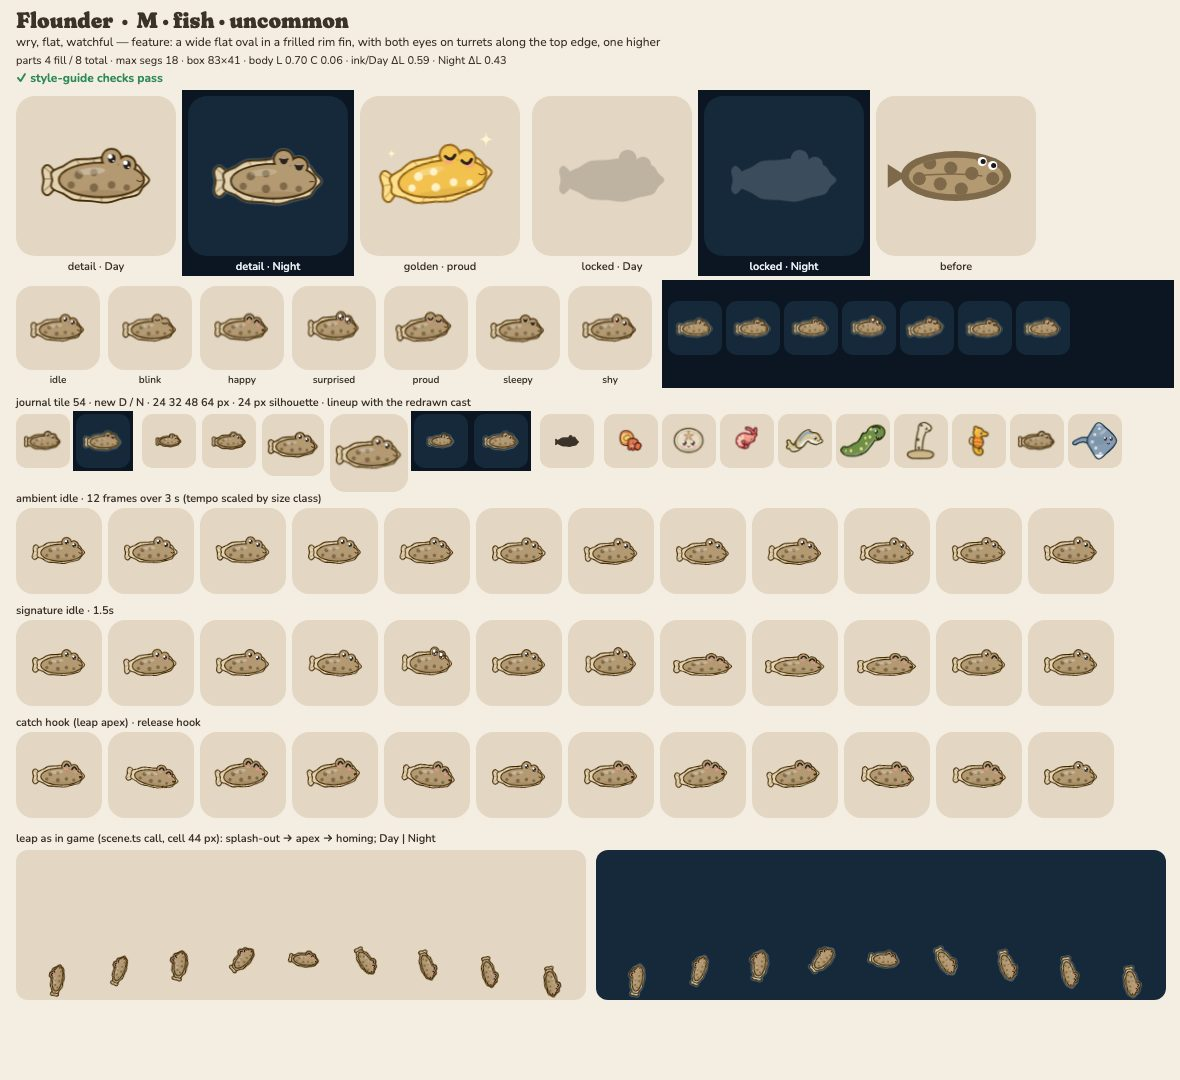
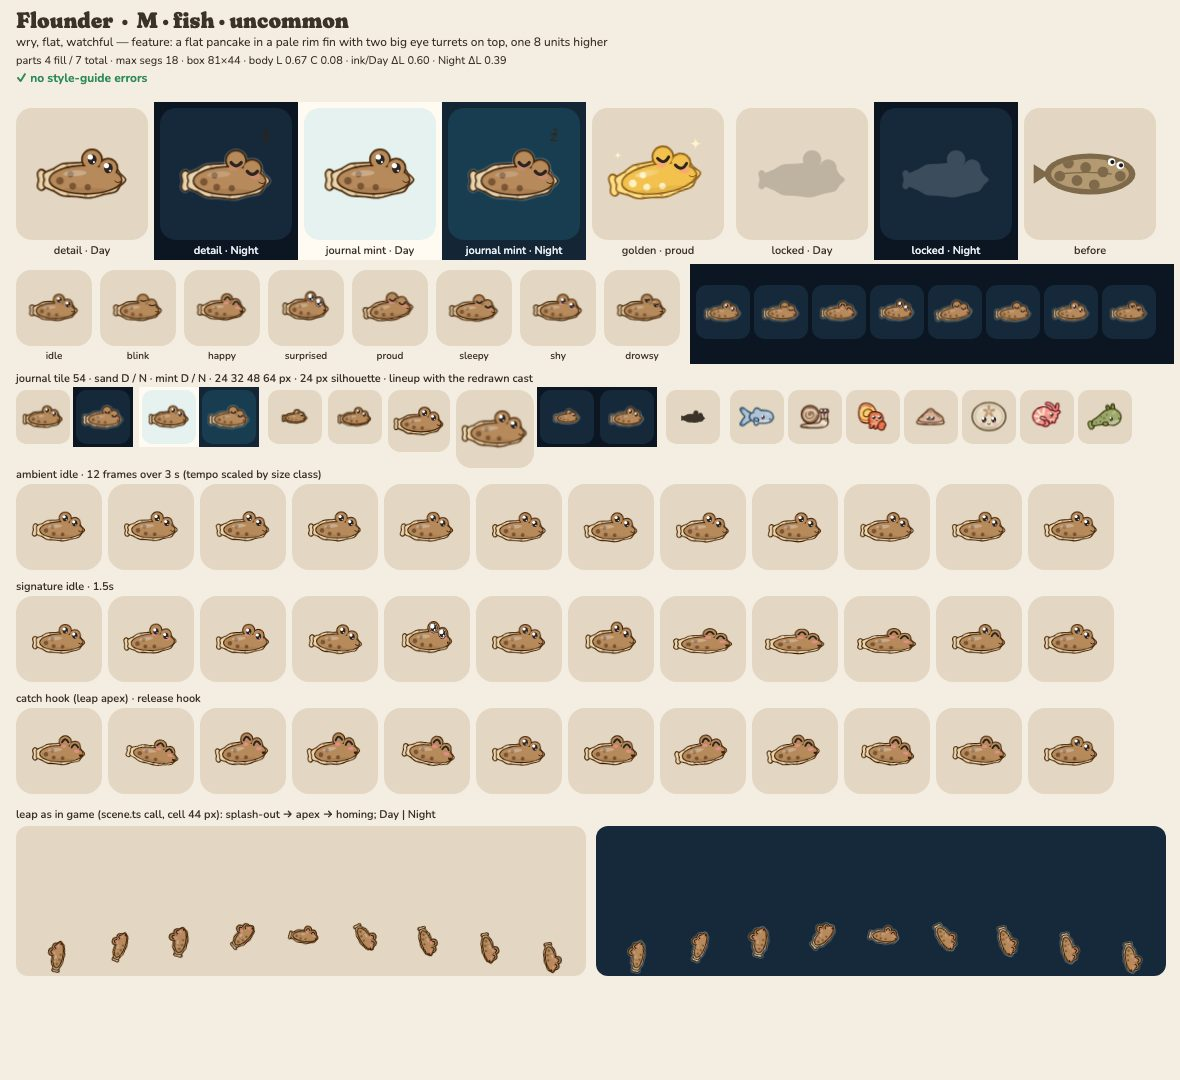
render: flounder redo — two big eye turrets, one 8 u higher (ADR 0011)
CRITIQUE-1 C. Stacked-eye joke at 1.6x: two big turrets on the top edge (eyes 9.6 u), the back one 8 units higher; body #B78A5C (C 0.08) with 4 spots #7A5636 kept off the face; pale rim fin #E9D4AE; tail stub halved. Signature: glance down, surprised, flop flat, wink. Lint clean (R7 deviation: the stacked eyes are the appendix's joke).

diff --git a/src/render/art/species/flounder.ts b/src/render/art/species/flounder.ts
@@ -1,72 +1,58 @@
 /**
- * Flounder — FISH class (flatfish lying on the sand, seen from above-front). Silhouette: a wide, flat
- * oval inside a pale frilled rim fin, with BOTH eyes on little turrets poking up from the top edge,
- * one higher than the other (R10: the stacked eyes — the joke). Wide (≈ 1.6 : 1) and flat with a fan
- * tail, so it never reads as a round puffer. Personality: wry, flat, watchful.
- * Signature: the eyes glance down and around, then it flops flat (squash 1.1 / 0.85).
+ * Flounder — FISH class (flatfish lying on the sand, seen from above-front). Silhouette: a flat
+ * pancake (2 : 1) in a pale scalloped rim fin with TWO BIG EYE TURRETS on the top edge, the front one
+ * 8 units lower than the back one (R10: the stacked eyes — the joke — exaggerated 1.6×), and only a
+ * stub of a tail. Never a puffer: flat, spineless, wide. Personality: wry, flat, watchful.
+ * Signature: the eyes glance down, then up surprised, then it flops flat (squash 1.1 / 0.85) and winks.
  */
 import { blob, circle, defineArt, ellipse, join } from '../kit.ts';
 
-const body = ellipse(0, 6, 33, 13);
+const body = ellipse(0, 9, 33, 12.5);
 // the rim fin: a softly scalloped frill all the way round (18 lobes, alternating radius)
 const rim = blob(
   Array.from({ length: 18 }, (_, i) => {
     const a = (i / 18) * Math.PI * 2;
     const k = i % 2 ? 0.93 : 1;
-    return [-2 + 39 * k * Math.cos(a), 6 + 17.5 * k * Math.sin(a)] as const;
+    return [-2 + 38.5 * k * Math.cos(a), 9 + 16.5 * k * Math.sin(a)] as const;
   }),
 );
-const turrets = join(circle(8, -11, 7), circle(20, -6, 6.4));
+// eye turrets: big domes on the top edge; the back one sits 8 units higher
+const turrets = join(circle(6, -10, 8.6), circle(21, -2, 8));
 const tail = blob([
-  [-36, 2],
-  [-42, -5],
-  [-46, -2],
-  [-45, 6],
-  [-46, 14],
-  [-42, 17],
-  [-36, 10],
+  [-37, 4],
+  [-41, 0],
+  [-44, 3],
+  [-43, 9],
+  [-44, 15],
+  [-41, 18],
+  [-37, 14],
 ]);
-const spots = join(
-  circle(-18, 2, 3.4),
-  circle(-6, 12, 3.4),
-  circle(-24, 10, 2.8),
-  circle(-6, 0, 3),
-  circle(8, 10, 3),
-  circle(20, 12, 2.6),
-);
+const spots = join(circle(-24, 10, 3.6), circle(-12, 15, 3.2), circle(-14, 4, 3), circle(2, 16, 3));
 const rays = join(
-  'M-30 -4L-34 -8',
-  'M-18 -7L-20 -11',
-  'M-6 -8L-6 -12',
-  'M-30 16L-34 20',
-  'M-16 19L-18 23',
-  'M0 20L0 24',
-  'M16 18L18 22',
-  'M28 13L32 16',
+  'M-30 -1L-34 -5',
+  'M-17 -4L-19 -9',
+  'M-30 19L-34 23',
+  'M-16 22L-18 27',
+  'M0 23L0 28',
+  'M16 21L18 26',
+  'M29 16L33 19',
 );
 
 export default defineArt({
   id: 'flounder',
   klass: 'fish',
   size: 'M',
-  feature: 'a wide flat oval in a frilled rim fin, with both eyes on turrets along the top edge, one higher',
+  feature: 'a flat pancake in a pale rim fin with two big eye turrets on top, one 8 units higher',
   personality: ['wry', 'flat', 'watchful'],
-  palette: { body: '#B49A72', accent: '#7E6A4A', belly: '#E3D2B0' },
+  palette: { body: '#B78A5C', accent: '#7A5636', belly: '#E9D4AE' },
   groups: [
-    {
-      id: 'tail',
-      pivot: [-36, 5],
-      parts: [
-        { d: tail, role: 'belly' },
-        { d: 'M-38 5L-46 5M-39 1L-45 -4M-39 9L-45 14', role: 'ink', kind: 'line', w: 1.1, alpha: 0.35 },
-      ],
-    },
+    { id: 'tail', pivot: [-37, 9], parts: [{ d: tail, role: 'belly' }] },
     {
       id: 'rim',
-      pivot: [-2, 5],
+      pivot: [-2, 9],
       parts: [
         { d: rim, role: 'belly' },
-        { d: rays, role: 'ink', kind: 'line', w: 1.1, alpha: 0.35 },
+        { d: rays, role: 'ink', kind: 'line', w: 3, alpha: 0.25 },
       ],
     },
     {
@@ -75,28 +61,28 @@ export default defineArt({
         { d: body, role: 'body' },
         { d: turrets, role: 'body' },
         { d: spots, role: 'accent', kind: 'pattern' },
-        { d: ellipse(0, 18, 26, 4), role: 'ink', kind: 'pattern', alpha: 0.1 },
+        { d: ellipse(-2, 20, 26, 3.5), role: 'ink', kind: 'pattern', alpha: 0.1 },
       ],
     },
   ],
-  shine: ellipse(-8, -1, 11, 2.8, -4),
+  shine: ellipse(-10, 3, 11, 2.8, -4),
   face: {
     eyes: [
-      [8, -11],
-      [20, -6],
+      [6, -10],
+      [21, -2],
     ],
-    eye: 7,
+    eye: 9.6,
     front: true,
-    zone: [0, -22, 34, 24],
-    mouth: { at: [30, 6], w: 5, shape: 'smile' },
+    zone: [-4, -30, 36, 40],
+    mouth: { at: [30, 10], w: 6, shape: 'smile' },
   },
   deviations: {
-    R7: 'flounder eyes sit stacked on the top edge, one higher (appendix: "Eyes stacked: the joke")',
+    R7: 'flounder eyes sit stacked on the top edge, one 8 units higher (appendix: "Eyes stacked: the joke")',
   },
   ground: true,
   idle: {
     ambient: [
-      { m: 'bob', amp: 1.2, period: 2.8 },
+      { m: 'bob', amp: 1, period: 2.8 },
       { m: 'wag', g: 'tail', amp: 8, period: 1.2 },
       { m: 'pulse', g: 'rim', amp: 0.02, period: 1.1 },
     ],
